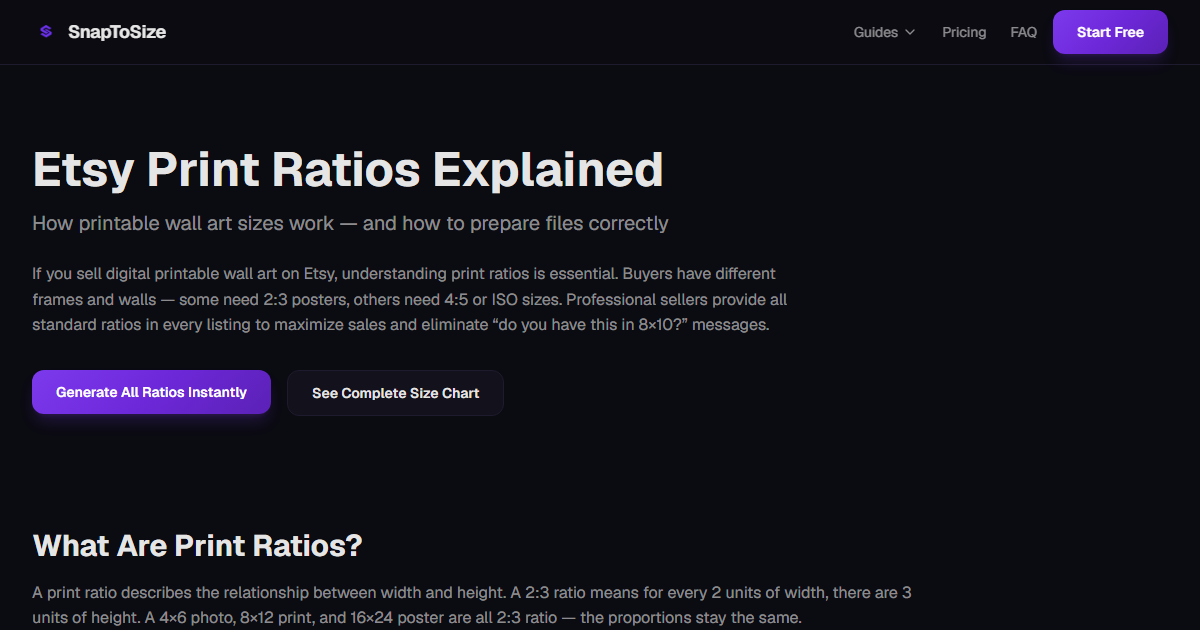
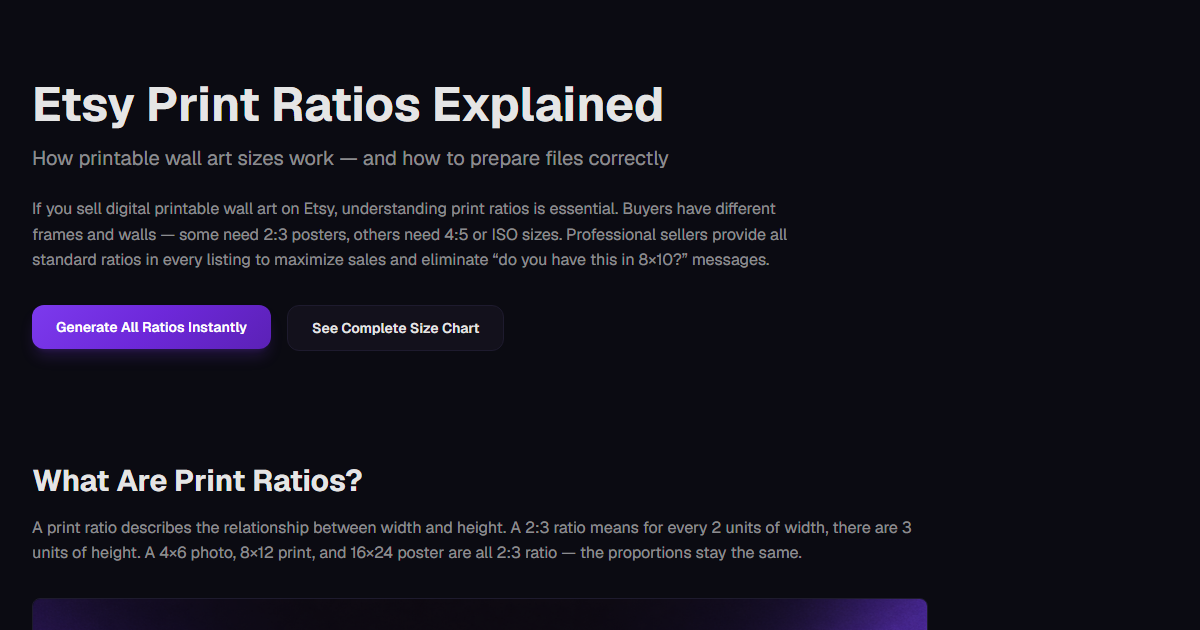
Fix OG images: restore hero background src, retake screenshots without nav
Previous replace_all accidentally changed hero <Image> src to OG paths,
causing recursive text doubling. Restored original hero image paths for
all 4 affected pages. Retook all 5 OG screenshots from static build
with header hidden via MutationObserver.

diff --git a/app-next/app/(marketing)/etsy-print-ratios/page.tsx b/app-next/app/(marketing)/etsy-print-ratios/page.tsx
@@ -185,7 +185,7 @@ export default function EtsyPrintRatiosPage() {
               <div className="my-8 relative rounded-lg overflow-hidden border border-border">
                 {/* Background Image */}
                 <Image
-                  src="/assets/og/etsy-print-ratios.png"
+                  src="/assets/hero_og_etsy-print-ratios.png"
                   alt="Etsy printable wall art ratio chart showing 2:3, 3:4, 4:5, ISO and extra print sizes"
                   width={1200}
                   height={675}

diff --git a/app-next/app/(marketing)/what-files-to-include-etsy-digital-download/page.tsx b/app-next/app/(marketing)/what-files-to-include-etsy-digital-download/page.tsx
@@ -148,7 +148,7 @@ export default function WhatFilesToIncludeEtsyDigitalDownloadPage() {
         {/* Background Image */}
         <div className="absolute inset-0 z-0">
           <Image
-            src="/assets/og/what-files-to-include-etsy-digital-download.png"
+            src="/assets/what-files_hero_3.png"
             alt=""
             fill
             priority

diff --git a/app-next/app/(marketing)/how-to-sell-digital-downloads-on-etsy/page.tsx b/app-next/app/(marketing)/how-to-sell-digital-downloads-on-etsy/page.tsx
@@ -201,7 +201,7 @@ export default function HowToSellDigitalDownloadsOnEtsyPage() {
         {/* Background Image */}
         <div className="absolute inset-0 z-0">
           <Image
-            src="/assets/og/how-to-sell-digital-downloads-on-etsy.png"
+            src="/assets/how-to-sell_hero.png"
             alt=""
             fill
             priority

diff --git a/app-next/app/(marketing)/etsy-print-sizes/page.tsx b/app-next/app/(marketing)/etsy-print-sizes/page.tsx
@@ -146,7 +146,7 @@ export default function EtsyPrintSizesPage() {
         {/* Background Image */}
         <div className="absolute inset-0 z-0">
           <Image
-            src="/assets/og/etsy-print-sizes.png"
+            src="/assets/Hero_OG_etsy-print-sizes.png"
             alt=""
             fill
             priority
